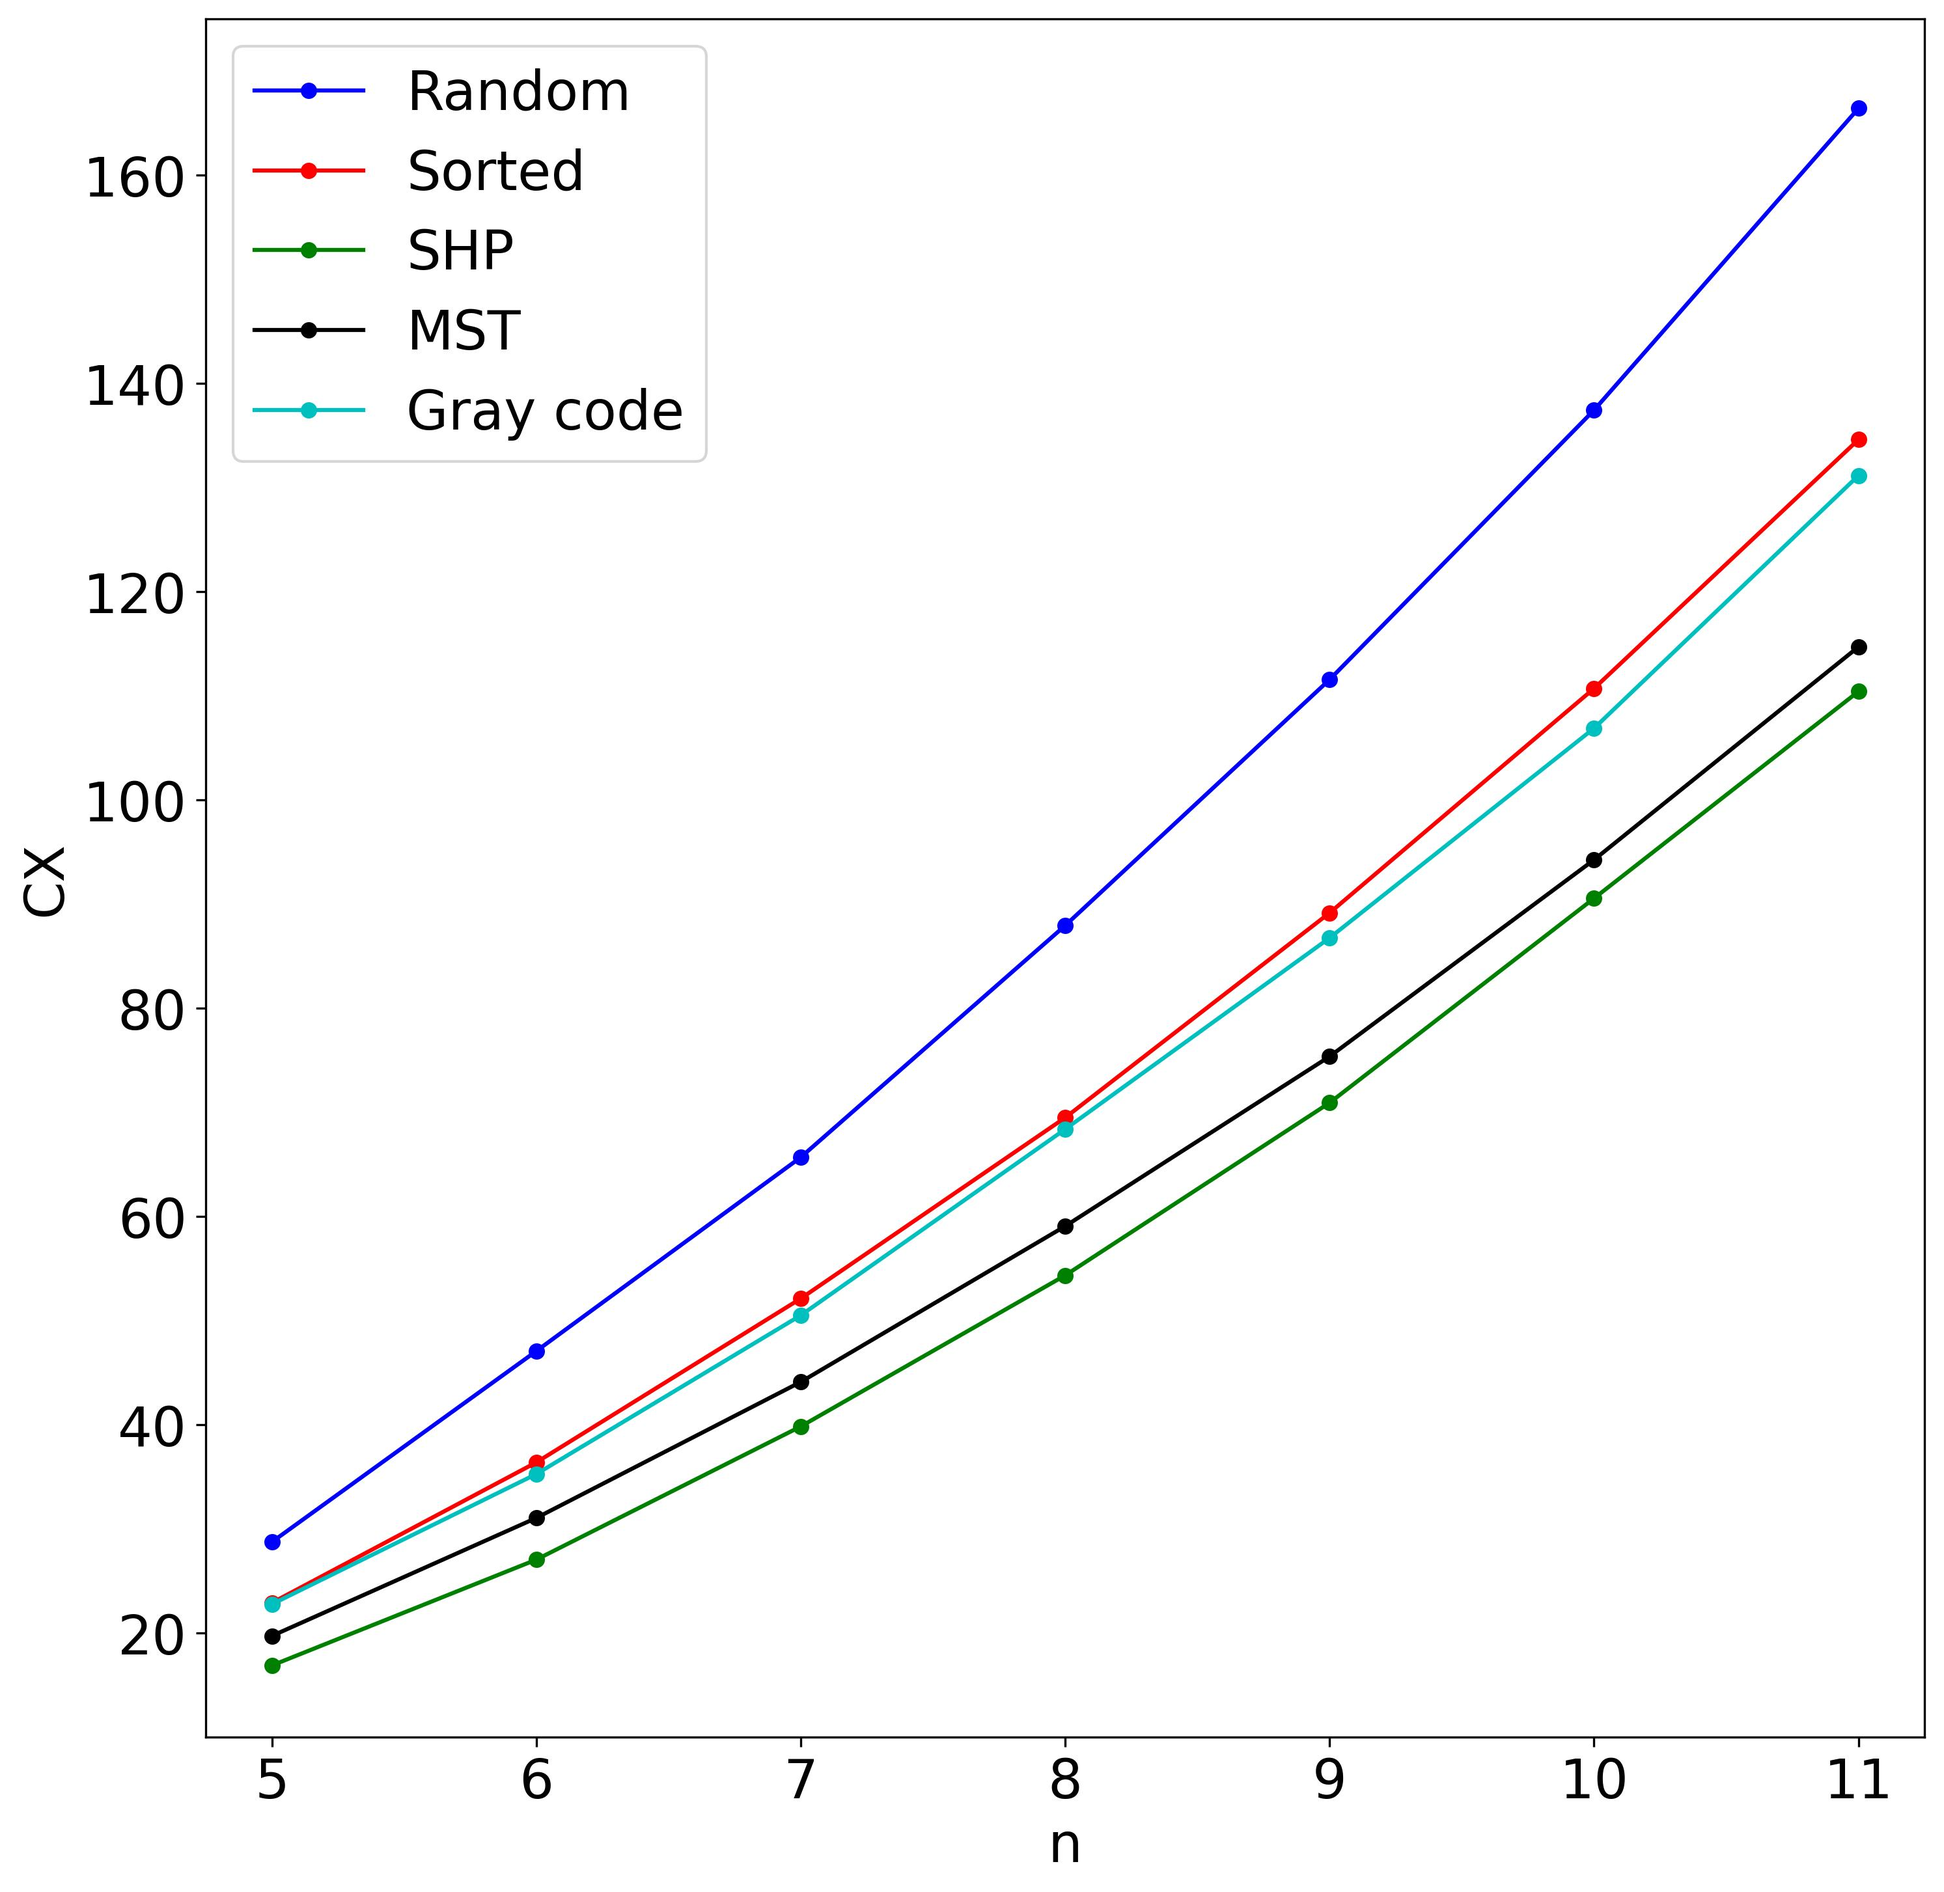
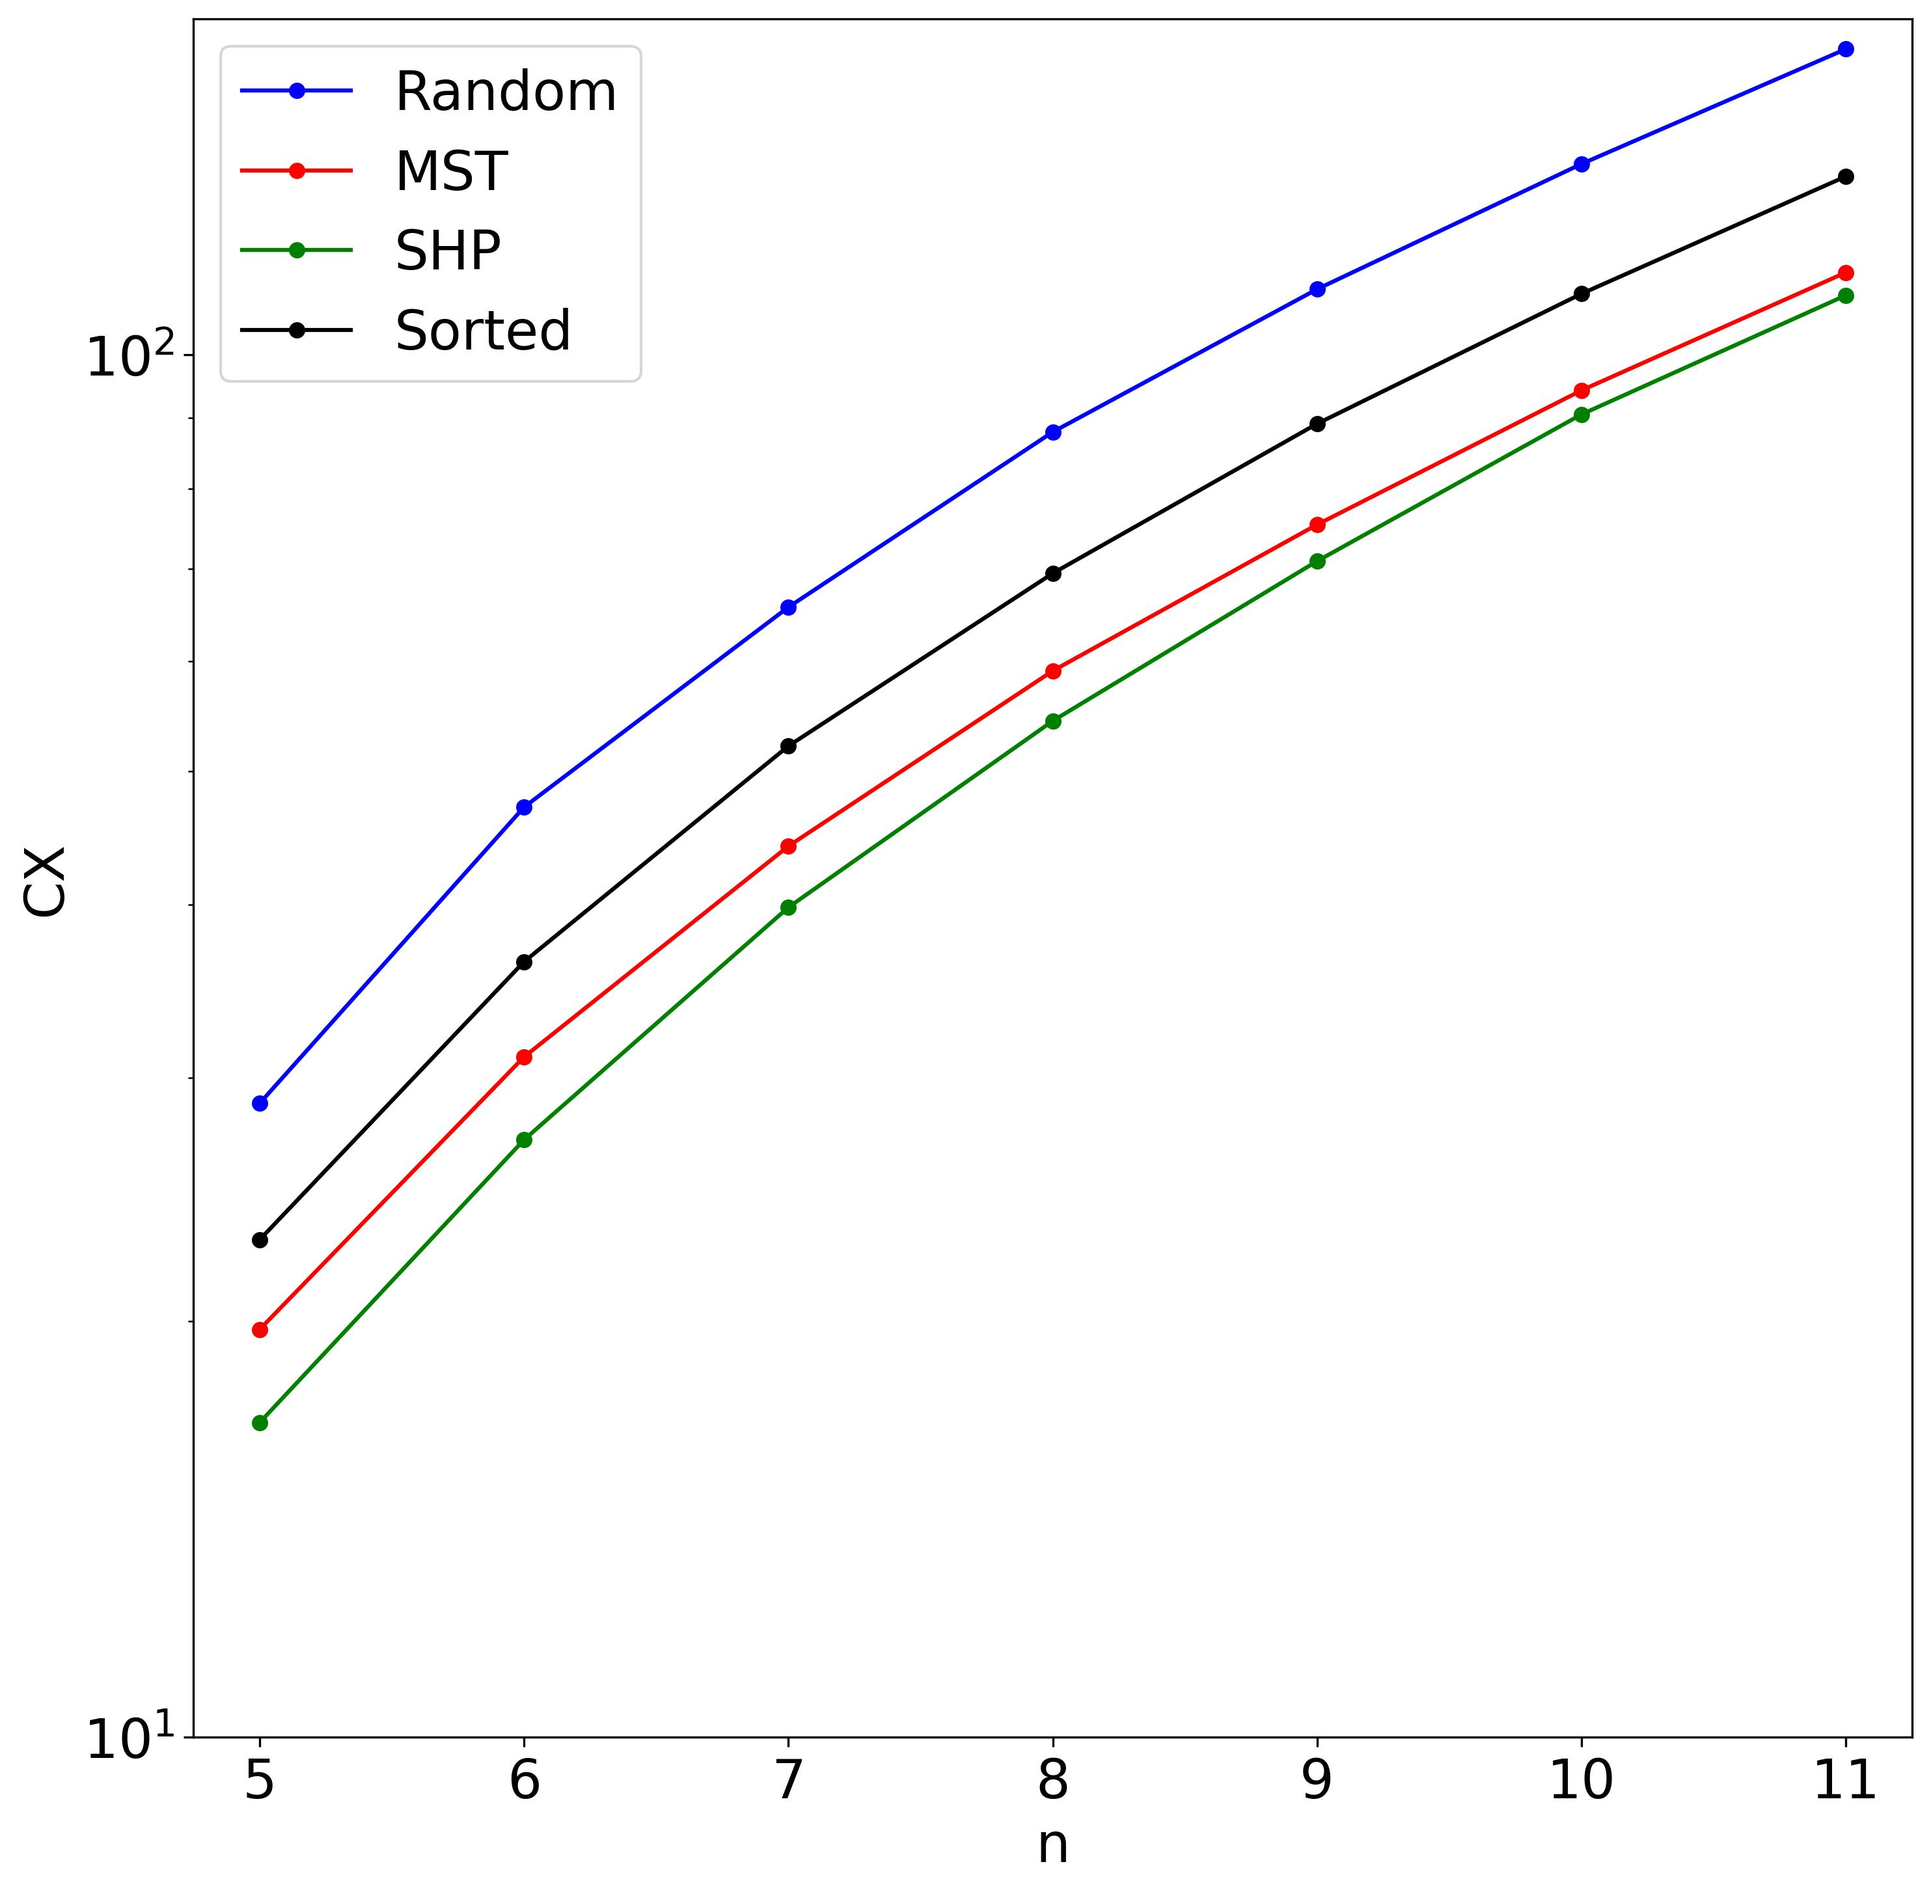
Plot updates

diff --git a/plots/quantum_walks.py b/plots/quantum_walks.py
@@ -34,12 +34,12 @@ def plot_walk_order_comparison():
     num_qubits = np.array(range(5, 12))
     num_amplitudes = num_qubits
     figure_id = 0
-    methods = ["random", "linear", "shp", "mst", "graycode"]
+    methods = ["random", "mst", "shp", "linear"]
     methods = [method + "_reduced" for method in methods]
-    labels = ["Random", "Sorted", "SHP", "MST", "Gray code"]
+    labels = ["Random", "MST", "SHP", "Sorted"]
     for method_ind, method in enumerate(methods):
         plot_cx_count_vs_num_qubits_line(method, num_qubits, num_amplitudes, method_ind, 0, labels[method_ind], figure_id)
-    plt.yscale("linear")
+    # plt.yscale("linear")
     plt.ylim(top=175)
     save_figure()
 
@@ -69,7 +69,7 @@ def plot_qiskit_comparison():
 
 if __name__ == "__main__":
     # plot_control_reduction_effect()
-    plot_walk_order_comparison()
-    # plot_qiskit_comparison()
+    # plot_walk_order_comparison()
+    plot_qiskit_comparison()
 
     plt.show()

diff --git a/plots/general.py b/plots/general.py
@@ -12,7 +12,7 @@ from numpy import ndarray
 colors = [(0, 0, 1), (1, 0, 0), (0, 0.5, 0), (0, 0, 0), (0, 0.75, 0.75), (0.75, 0, 0.75), (0.75, 0.75, 0)]
 colors += distinctipy.get_colors(10, colors + [(1, 1, 1)])
 markers = 'o*Xvs'
-marker_sizes = {'o': 5, '*': 8, 'X': 7, 'v': 5, 's': 5, 'none': 0}
+marker_sizes = {'o': 8, '*': 10, 'X': 7, 'v': 5, 's': 5, 'none': 0}
 styles = ['-', '--']
 
 
